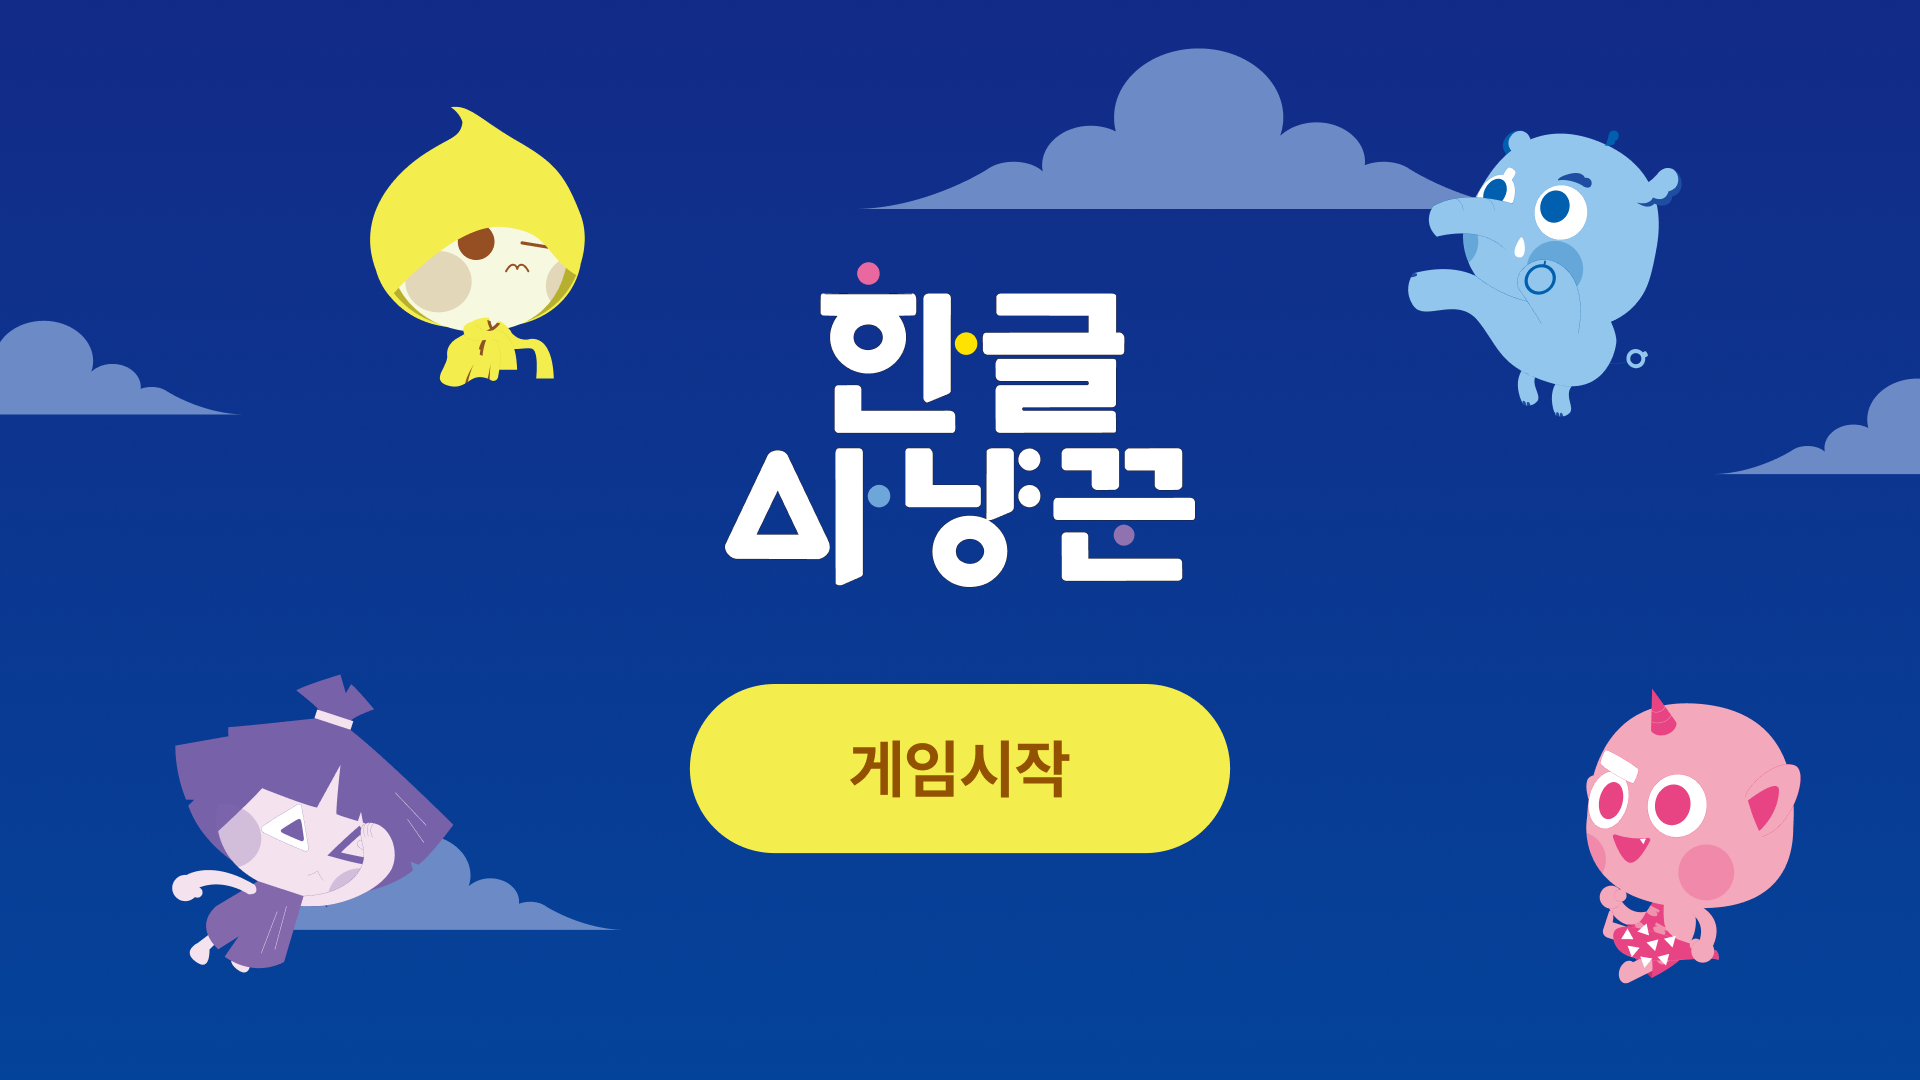
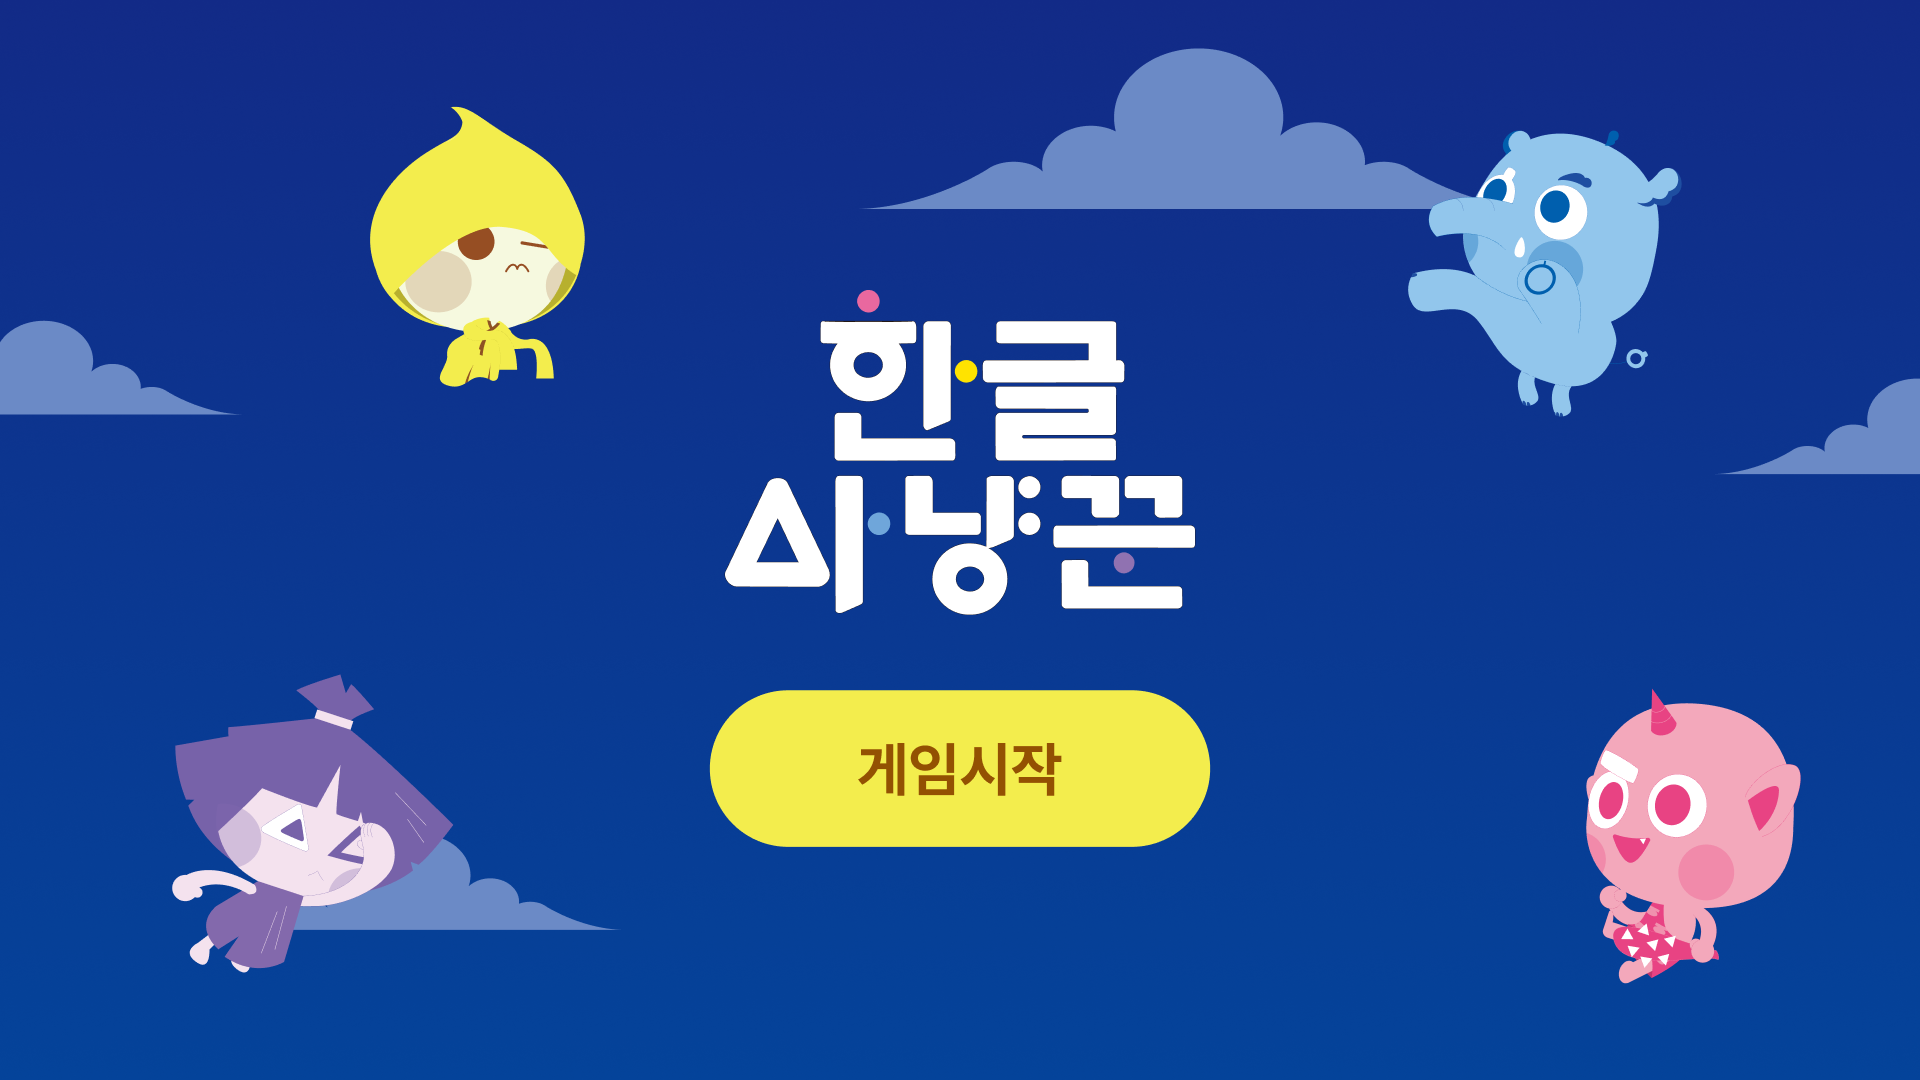
야광귀까지 진행

diff --git a/shared/style.css b/shared/style.css
@@ -39,7 +39,7 @@ html, body {
   position: absolute;
   top: 39%;
   left: 50%;
-  width: 25%;
+  width: 24%;
   height: auto;
   transform: translate(-50%, -50%);
   z-index: 10;
@@ -47,9 +47,9 @@ html, body {
 
 .start-button {
   position: absolute;
-  top: 71%;
+  top: 65%;
   left: 50%;
-  width: 30%;
+  width: 19.2%;
   transform: translate(-50%, -50%);
   background: none;
   border: none;
@@ -134,22 +134,22 @@ html, body {
 
 @keyframes float-a {
   0%, 100% { transform: translateY(0); }
-  50% { transform: translateY(-16px); }
+  50% { transform: translateY(-28px); }
 }
 
 @keyframes float-b {
   0%, 100% { transform: translateY(0); }
-  50% { transform: translateY(-12px); }
+  50% { transform: translateY(-22px); }
 }
 
 @keyframes float-c {
   0%, 100% { transform: translateY(0); }
-  50% { transform: translateY(-14px); }
+  50% { transform: translateY(-25px); }
 }
 
 @keyframes float-d {
   0%, 100% { transform: translateY(0); }
-  50% { transform: translateY(-18px); }
+  50% { transform: translateY(-32px); }
 }
 
 /* ---------- 캐릭터 선택 화면 ---------- */
@@ -520,13 +520,13 @@ html, body {
 
 @media (max-width: 768px) {
   .logo-typo {
-    width: 34%;
+    width: 32.4%;
   }
   .logo-typo--small {
     width: 20%;
   }
   .start-button {
-    width: 38%;
+    width: 24%;
   }
   .monster-wrap--tl {
     width: 16%;
@@ -547,13 +547,13 @@ html, body {
 
 @media (max-width: 480px) {
   .logo-typo {
-    width: 40%;
+    width: 38.4%;
   }
   .logo-typo--small {
     width: 26%;
   }
   .start-button {
-    width: 46%;
+    width: 30%;
   }
   .monster-wrap--tl {
     width: 20%;
